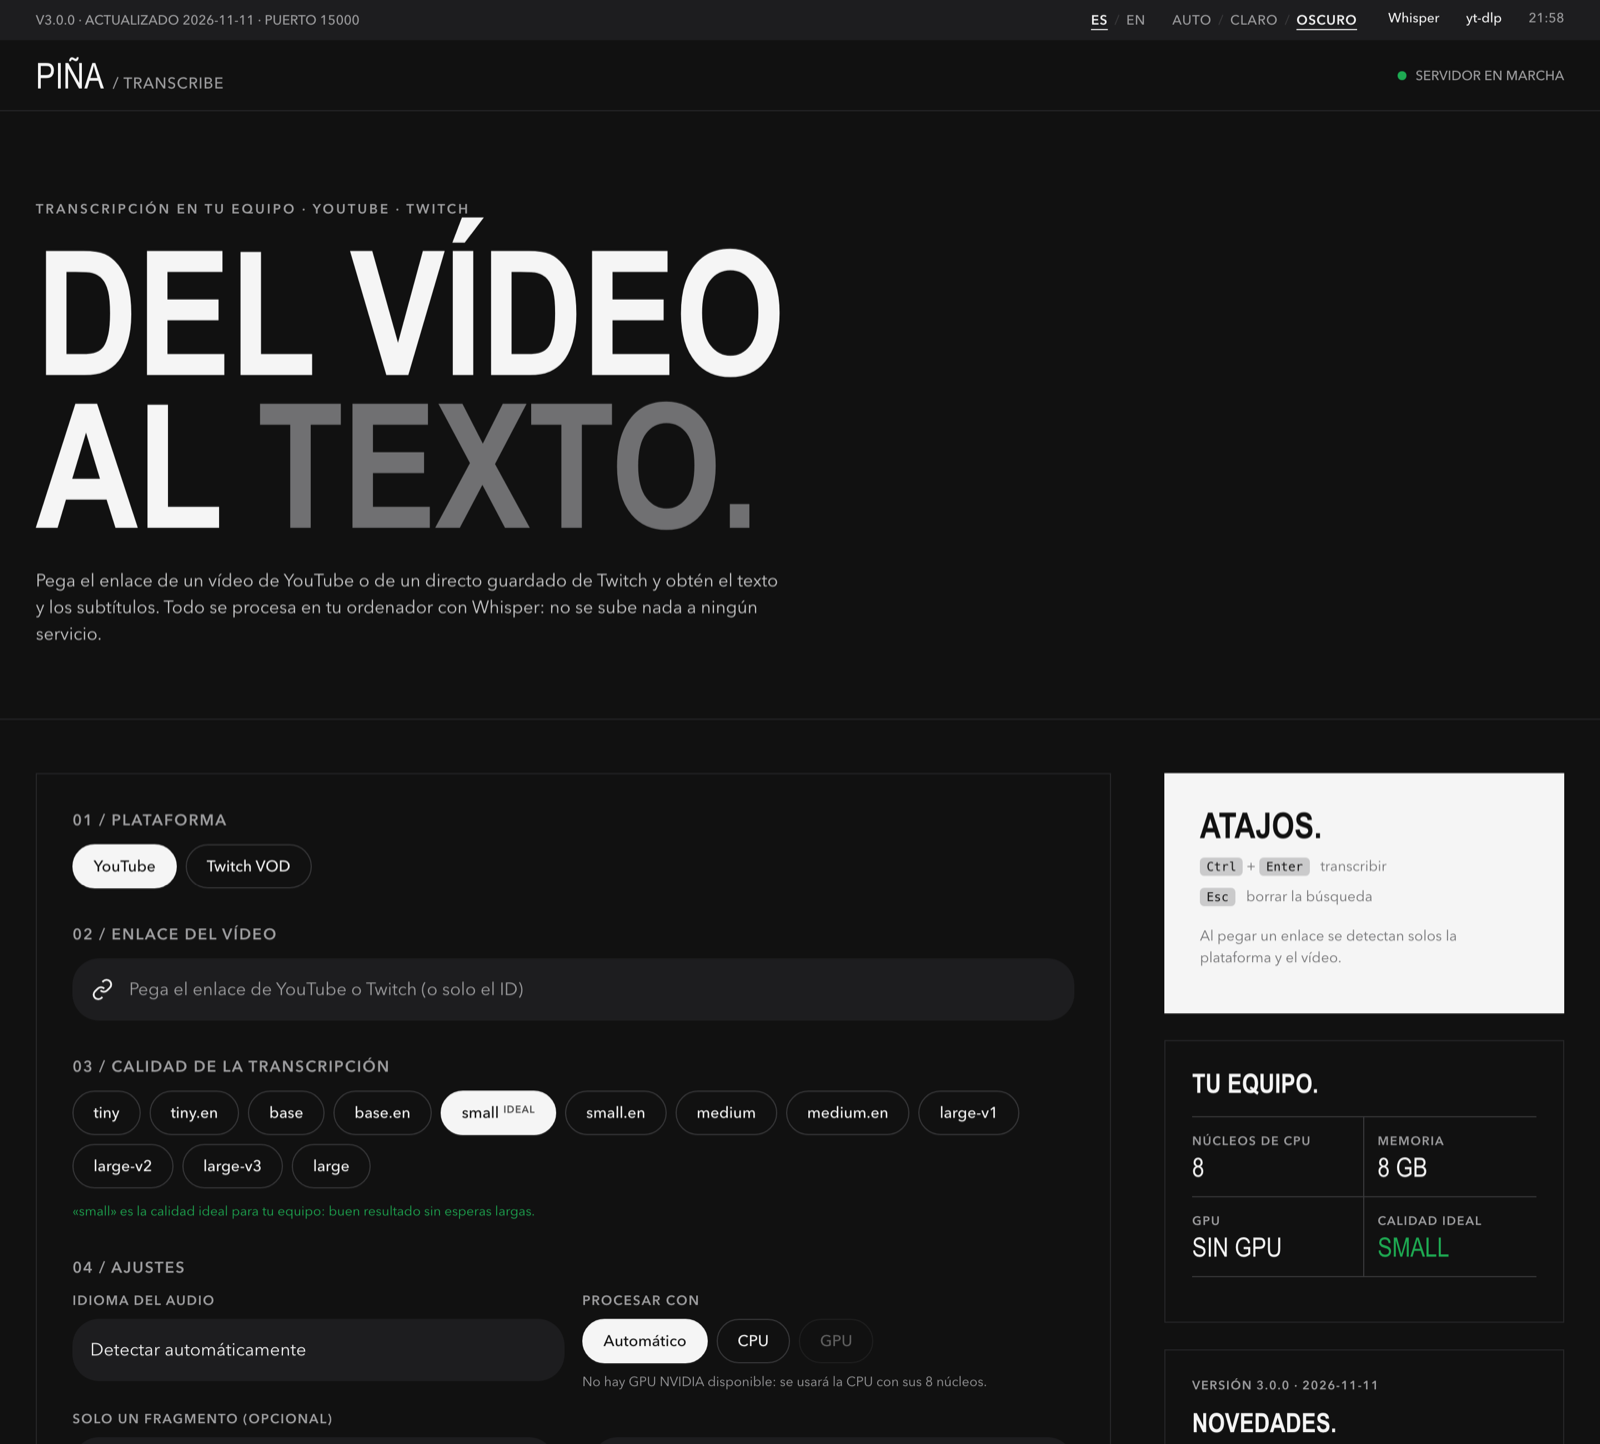
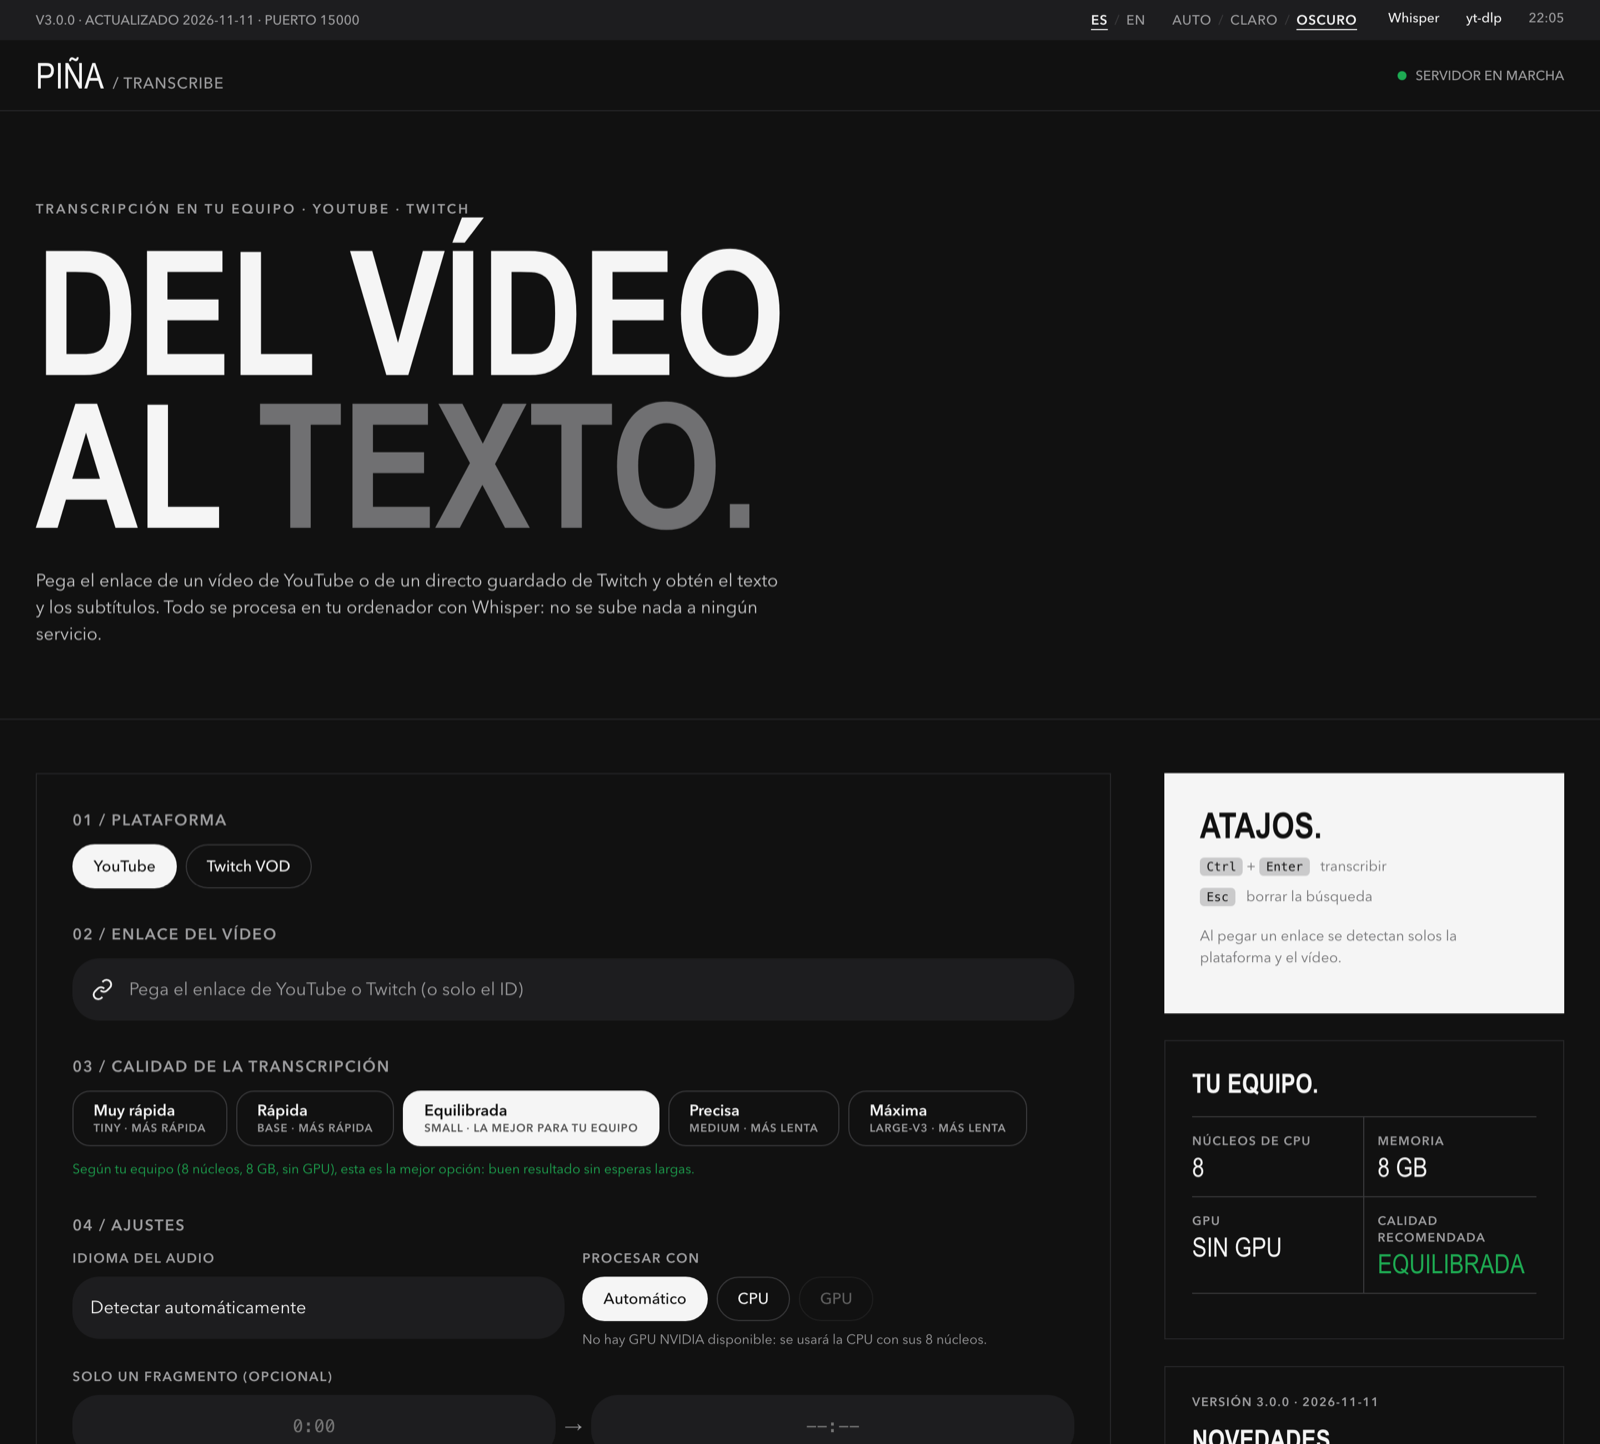
Calidad con nombres claros y recomendación por equipo; probado recorte en vídeo largo

diff --git a/web/i18n.js b/web/i18n.js
@@ -20,7 +20,7 @@ window.PINA_I18N = {
     'form.h.model': '03 / Calidad de la transcripción',
     'form.h.options': '04 / Ajustes',
     'form.placeholder': 'Pega el enlace de YouTube o Twitch (o solo el ID)',
-    'form.recommended': 'IDEAL',
+    
     'form.lang': 'Idioma del audio',
     'form.lang.auto': 'Detectar automáticamente',
     'form.device': 'Procesar con',
@@ -77,7 +77,7 @@ window.PINA_I18N = {
     'side.memory': 'Memoria',
     'side.gpu': 'GPU',
     'side.gpu.none': 'Sin GPU',
-    'side.recommended': 'Calidad ideal',
+    'side.recommended': 'Calidad recomendada',
     'side.release': 'Novedades.',
     'side.release.meta': 'Versión {v} · {d}',
     'side.history': 'Últimos trabajos.',
@@ -115,11 +115,21 @@ window.PINA_I18N = {
     'hint.device.gpu': 'Tienes {n} GPU NVIDIA: en Automático se usará la GPU, que es mucho más rápida.',
     'hint.device.cpu': 'No hay GPU NVIDIA disponible: se usará la CPU con sus {n} núcleos.',
     'hint.device.gpu_missing': 'Este equipo no tiene GPU NVIDIA. Se usará la CPU.',
-    'hint.model.ideal': '«{m}» es la calidad ideal para tu equipo: buen resultado sin esperas largas.',
-    'hint.model.fast': '«{m}» es más rápido pero comete más errores. Para tu equipo lo ideal es «{r}».',
-    'hint.model.slow': '«{m}» es más preciso pero en este equipo irá lento. Lo ideal es «{r}».',
-    'hint.model.heavy': '«{m}» necesita unos {g} GB de memoria y tu equipo tiene {have} GB: puede fallar. Usa «{r}».',
+    'hint.model.ideal': 'Según tu equipo ({cpu} núcleos, {mem} GB, {gpu}), esta es la mejor opción: buen resultado sin esperas largas.',
+    'hint.model.fast': 'Más rápida, pero comete más errores. Para tu equipo lo mejor es «{r}».',
+    'hint.model.slow': 'Más precisa, pero en este equipo tardará bastante. Lo mejor es «{r}».',
+    'hint.model.heavy': 'Necesita unos {g} GB de memoria y tu equipo tiene {have} GB.',
     'hint.model.en': 'Las versiones .en solo sirven para audio en inglés.',
+    'model.tiny': 'Muy rápida',
+    'model.base': 'Rápida',
+    'model.small': 'Equilibrada',
+    'model.medium': 'Precisa',
+    'model.large-v3': 'Máxima',
+    'model.status.ideal': 'la mejor para tu equipo',
+    'model.status.faster': 'más rápida',
+    'model.status.slower': 'más lenta',
+    'model.status.nofit': 'no cabe en memoria',
+    'hint.nogpu': 'sin GPU',
     'err.unexpected': 'Error inesperado.',
   },
 
@@ -143,7 +153,7 @@ window.PINA_I18N = {
     'form.h.model': '03 / Transcription quality',
     'form.h.options': '04 / Settings',
     'form.placeholder': 'Paste a YouTube or Twitch link (or just the ID)',
-    'form.recommended': 'BEST',
+    
     'form.lang': 'Audio language',
     'form.lang.auto': 'Detect automatically',
     'form.device': 'Process with',
@@ -200,7 +210,7 @@ window.PINA_I18N = {
     'side.memory': 'Memory',
     'side.gpu': 'GPU',
     'side.gpu.none': 'No GPU',
-    'side.recommended': 'Best quality',
+    'side.recommended': 'Recommended quality',
     'side.release': "What's new.",
     'side.release.meta': 'Version {v} · {d}',
     'side.history': 'Latest jobs.',
@@ -238,11 +248,21 @@ window.PINA_I18N = {
     'hint.device.gpu': 'You have {n} NVIDIA GPU(s): Automatic will use the GPU, which is much faster.',
     'hint.device.cpu': 'No NVIDIA GPU available: the CPU will be used with its {n} cores.',
     'hint.device.gpu_missing': 'This machine has no NVIDIA GPU. The CPU will be used.',
-    'hint.model.ideal': '"{m}" is the best quality for your machine: good results without long waits.',
-    'hint.model.fast': '"{m}" is faster but makes more mistakes. For your machine the best is "{r}".',
-    'hint.model.slow': '"{m}" is more accurate but will be slow on this machine. The best is "{r}".',
-    'hint.model.heavy': '"{m}" needs about {g} GB of memory and your machine has {have} GB: it may fail. Use "{r}".',
+    'hint.model.ideal': 'Based on your machine ({cpu} cores, {mem} GB, {gpu}), this is the best option: good results without long waits.',
+    'hint.model.fast': 'Faster, but makes more mistakes. For your machine the best is "{r}".',
+    'hint.model.slow': 'More accurate, but will take a while on this machine. The best is "{r}".',
+    'hint.model.heavy': 'Needs about {g} GB of memory and your machine has {have} GB.',
     'hint.model.en': 'The .en versions only work for English audio.',
+    'model.tiny': 'Very fast',
+    'model.base': 'Fast',
+    'model.small': 'Balanced',
+    'model.medium': 'Accurate',
+    'model.large-v3': 'Maximum',
+    'model.status.ideal': 'best for your machine',
+    'model.status.faster': 'faster',
+    'model.status.slower': 'slower',
+    'model.status.nofit': "doesn't fit in memory",
+    'hint.nogpu': 'no GPU',
     'err.unexpected': 'Unexpected error.',
   },
 };

diff --git a/web/app.js b/web/app.js
@@ -152,27 +152,46 @@
     if (s.gpu_count > 0 && state.device !== 'cpu') setHint('device-hint', t('hint.device.gpu', { n: s.gpu_count }), 'good');
     else setHint('device-hint', t('hint.device.cpu', { n: s.cpu_threads }));
 
-    const m = currentModel(), r = state.recommended;
-    const order = s.model_order || [];
-    const need = (s.model_memory_gb || {})[baseModel(m)];
+    const m = currentModel();
+    const r = t('model.' + state.recommended);
+    const gpuTxt = s.gpu_count > 0 ? s.gpu_count + ' GPU NVIDIA' : t('hint.nogpu');
+    const st = modelStatus(m);
     let text, kind;
-    if (need && s.memory_gb && need > s.memory_gb) {
-      text = t('hint.model.heavy', { m, g: need, have: s.memory_gb, r }); kind = 'warn';
-    } else if (baseModel(m) === r) {
-      text = t('hint.model.ideal', { m }); kind = 'good';
-    } else if (order.indexOf(baseModel(m)) > order.indexOf(r)) {
-      text = t('hint.model.slow', { m, r }); kind = 'warn';
+    if (st === 'nofit') {
+      text = t('hint.model.heavy', { g: (s.model_memory_gb || {})[m], have: s.memory_gb }); kind = 'warn';
+    } else if (st === 'ideal') {
+      text = t('hint.model.ideal', { cpu: s.cpu_threads, mem: s.memory_gb ?? '?', gpu: gpuTxt }); kind = 'good';
+    } else if (st === 'slower') {
+      text = t('hint.model.slow', { r }); kind = 'warn';
     } else {
-      text = t('hint.model.fast', { m, r });
+      text = t('hint.model.fast', { r });
     }
-    if (m.endsWith('.en')) text += ' ' + t('hint.model.en');
     setHint('model-hint', text, kind);
   };
 
+  // Botones de calidad: nombre claro + estado calculado para este equipo.
+  const UI_MODELS = ['tiny', 'base', 'small', 'medium', 'large-v3'];
+  const modelStatus = (m) => {
+    const s = state.system;
+    if (!s) return '';
+    const need = (s.model_memory_gb || {})[m];
+    if (need && s.memory_gb && need > s.memory_gb) return 'nofit';
+    if (m === state.recommended) return 'ideal';
+    const order = s.model_order || [];
+    return order.indexOf(m) < order.indexOf(state.recommended) ? 'faster' : 'slower';
+  };
   const renderModels = () => {
-    const list = state.models.length ? state.models : DEFAULT_MODELS;
+    const available = state.models.length ? state.models : DEFAULT_MODELS;
+    const list = UI_MODELS.filter((m) => available.includes(m));
     const selected = currentModel();
-    $('models').innerHTML = list.map((m) => `<button type="button" class="chip${m === selected ? ' active' : ''}" role="radio" data-value="${m}" aria-checked="${m === selected}">${m}${m === state.recommended ? `<sup>${escapeHtml(t('form.recommended'))}</sup>` : ''}</button>`).join('');
+    $('models').innerHTML = list.map((m) => {
+      const st = modelStatus(m);
+      const tag = st ? t('model.status.' + st) : '';
+      return `<button type="button" class="chip chip-model${m === selected ? ' active' : ''}${st ? ' st-' + st : ''}" role="radio" data-value="${m}" aria-checked="${m === selected}"${st === 'nofit' ? ' disabled' : ''}>
+        <span class="m-name">${escapeHtml(t('model.' + m))}</span>
+        <span class="m-meta">${escapeHtml(m)}${tag ? ' · ' + escapeHtml(tag) : ''}</span>
+      </button>`;
+    }).join('');
     $('models').querySelectorAll('.chip').forEach((c) => c.addEventListener('click', () => {
       state.model = c.dataset.value;
       store.set('pina.model', state.model);
@@ -500,7 +519,7 @@
     $('sys-cpu').textContent = s.cpu_threads;
     $('sys-mem').textContent = s.memory_gb != null ? s.memory_gb + ' GB' : '--';
     $('sys-gpu').textContent = s.gpu_count > 0 ? '× ' + s.gpu_count : t('side.gpu.none');
-    $('sys-model').textContent = s.recommended_model;
+    $('sys-model').textContent = t('model.' + s.recommended_model);
     renderHints();
   };
 
@@ -515,7 +534,7 @@
       state.system = system.value.data;
       state.recommended = state.system.recommended_model;
     }
-    if (state.model && state.models.length && !state.models.includes(state.model)) state.model = '';
+    if (state.model && !UI_MODELS.includes(state.model)) state.model = '';
     renderModels();
     renderAbout();
     renderSystem();

diff --git a/web/styles.css b/web/styles.css
@@ -452,3 +452,11 @@ a.btn { text-decoration:none; }
 .field-hint.warn { color:var(--sale); }
 .field-hint.good { color:var(--success); }
 #model-hint { margin-top:12px; }
+.chip-model {
+  height:auto; padding:10px 18px; display:inline-flex; flex-direction:column; align-items:flex-start; gap:4px;
+  border-radius:16px; text-align:left;
+}
+.chip-model .m-name { font-size:14px; font-weight:600; }
+.chip-model .m-meta { font-size:10px; font-weight:600; letter-spacing:0.06em; text-transform:uppercase; color:var(--mute); }
+.chip-model.st-ideal .m-meta { color:var(--success); }
+.chip-model.active .m-meta { color:var(--on-primary); opacity:.7; }

diff --git a/README.md b/README.md
@@ -113,15 +113,15 @@ python -m uvicorn web_server:app --host 127.0.0.1 --port 15000
 
 ## ¿Qué modelo elijo?
 
-La tarjeta **Tu equipo** de la interfaz sugiere uno automáticamente. Como referencia:
+Al abrir la interfaz se detectan la GPU, los núcleos y la memoria de tu equipo: se preselecciona la mejor calidad, se desactiva lo que no cabe en memoria y se avisa si una opción va a ir lenta. Como referencia:
 
-| Modelo | Memoria aprox. | Ideal para |
+| Calidad | Memoria aprox. | Ideal para |
 |---|---|---|
-| `tiny` | ~1 GB | Equipos muy modestos, pruebas rápidas |
-| `base` | ~1,5 GB | Portátiles de 4 núcleos, buen equilibrio |
-| `small` | ~2,5 GB | CPU de 6+ núcleos y 8 GB de RAM |
-| `medium` | ~4 GB | Más precisión si no importa esperar |
-| `large-v3` | ~6 GB | GPU NVIDIA o mucha paciencia en CPU |
+| Muy rápida · `tiny` | ~1 GB | Equipos muy modestos, pruebas rápidas |
+| Rápida · `base` | ~1,5 GB | Portátiles de 4 núcleos, buen equilibrio |
+| Equilibrada · `small` | ~2,5 GB | CPU de 6+ núcleos y 8 GB de RAM |
+| Precisa · `medium` | ~4 GB | Más precisión si no importa esperar |
+| Máxima · `large-v3` | ~6 GB | GPU NVIDIA o mucha paciencia en CPU |
 
 Las variantes `.en` (`base.en`, `small.en`…) están disponibles por API y CLI y van algo mejor con audio solo en inglés.
 

diff --git a/README.en.md b/README.en.md
@@ -113,15 +113,15 @@ python -m uvicorn web_server:app --host 127.0.0.1 --port 15000
 
 ## Which model should I pick?
 
-The **Your machine** card in the interface suggests one automatically. As a guide:
+When the interface opens it detects your GPU, cores and memory: the best quality is preselected, anything that won't fit in memory is disabled and you're warned when an option will be slow. As a guide:
 
-| Model | Approx. memory | Best for |
+| Quality | Approx. memory | Best for |
 |---|---|---|
-| `tiny` | ~1 GB | Very modest machines, quick tests |
-| `base` | ~1.5 GB | 4-core laptops, good balance |
-| `small` | ~2.5 GB | 6+ core CPUs with 8 GB RAM |
-| `medium` | ~4 GB | More accuracy if you can wait |
-| `large-v3` | ~6 GB | NVIDIA GPUs, or lots of patience on CPU |
+| Very fast · `tiny` | ~1 GB | Very modest machines, quick tests |
+| Fast · `base` | ~1.5 GB | 4-core laptops, good balance |
+| Balanced · `small` | ~2.5 GB | 6+ core CPUs with 8 GB RAM |
+| Accurate · `medium` | ~4 GB | More accuracy if you can wait |
+| Maximum · `large-v3` | ~6 GB | NVIDIA GPUs, or lots of patience on CPU |
 
 The `.en` variants (`base.en`, `small.en`…) are available through the API and CLI and do slightly better on English-only audio.
 
